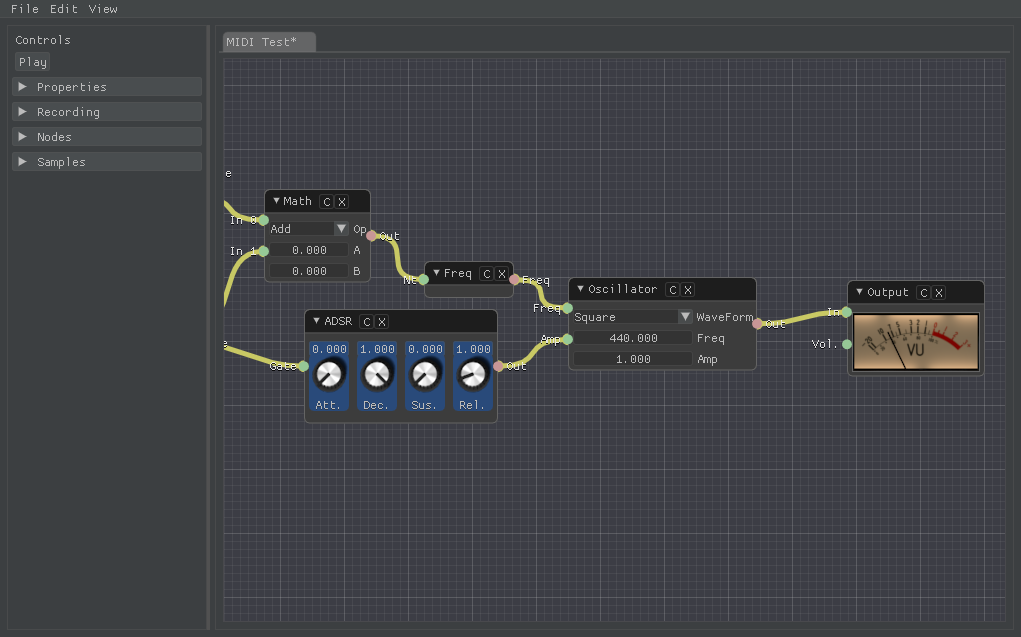
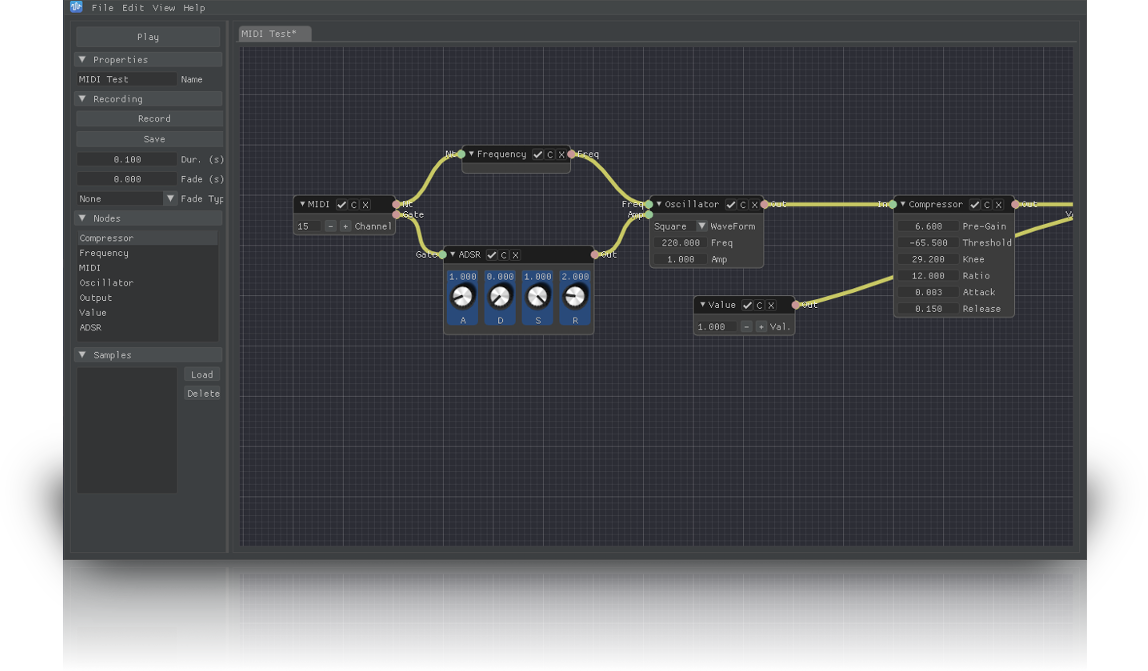
Update screenshot and README

diff --git a/README.md b/README.md
@@ -12,9 +12,9 @@ It is a 100% visual tool to help you create a broad variety of sounds, packed wi
 
 ## Main Features
 * Many useful nodes
-* Recording
+* Recording (OGG)
 * Sampling (WAV, OGG, AIFF and FLAC)
-* Reverb effect
+* Effects
 
 ## Building
 Tools Needed:
